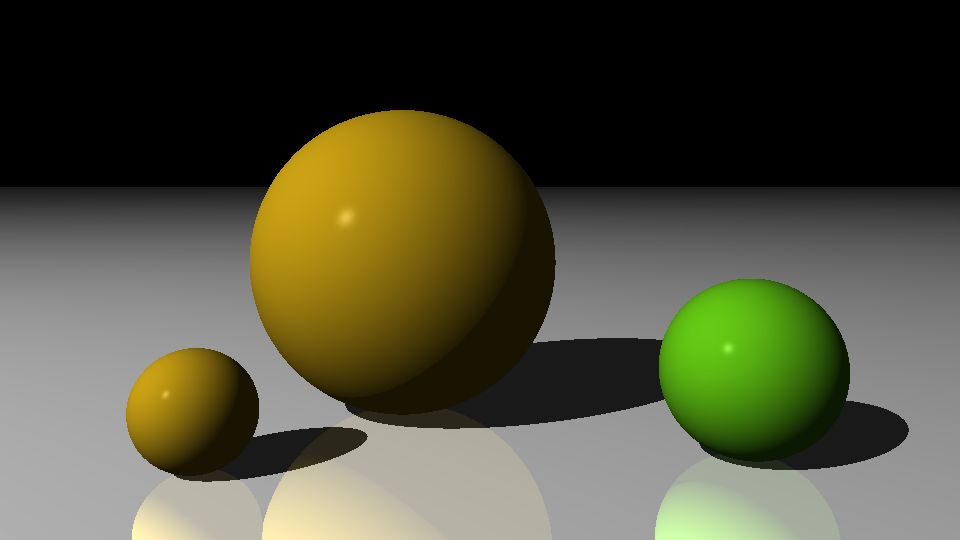
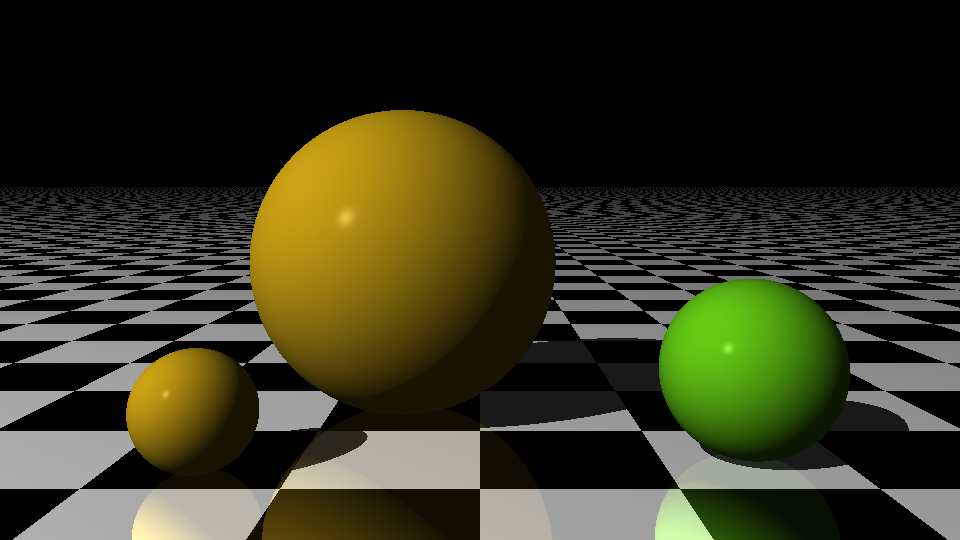
Get full scene configuration working again.

Changed region(s): [[0.0, 0.3259, 1.0, 1.0], [0.0, 0.3259, 0.3438, 0.8]]

diff --git a/src/loader.rs b/src/loader.rs
@@ -1,10 +1,22 @@
 use serde::{Deserialize, Serialize};
 
-use crate::maths::{Matrix4x4, rgb, vec3};
+use crate::graphics::{CheckerPattern, GradientPattern, RingPattern, StripedPattern};
+use crate::maths::{Color, Matrix4x4, rgb, vec3, Vector};
 use crate::scene::*;
 
-/// An (x, y, z) tuple.
 type PackedTuple = [f64; 3];
+
+impl From<PackedTuple> for Vector {
+  fn from([x, y, z]: PackedTuple) -> Self {
+    vec3(x, y, z)
+  }
+}
+
+impl From<PackedTuple> for Color {
+  fn from([r, g, b]: PackedTuple) -> Self {
+    rgb(r, g, b)
+  }
+}
 
 /// A serialized `Scene` that can be read from a file.
 #[derive(Serialize, Deserialize)]
@@ -38,6 +50,7 @@ struct PackedObject {
 }
 
 #[derive(Copy, Clone, Serialize, Deserialize)]
+#[serde(rename_all = "snake_case")]
 enum PackedKind {
   Sphere,
   Plane,
@@ -75,8 +88,8 @@ impl PackedObject {
       PackedKind::Plane => {
         Box::new(
           Plane::new(vec3(0., 1., 0.))
-          .with_material(material)
-          .with_transform(transform)
+            .with_material(material)
+            .with_transform(transform)
         )
       }
     }
@@ -85,7 +98,7 @@ impl PackedObject {
 
 #[derive(Serialize, Deserialize)]
 struct PackedMaterial {
-  color: Option<PackedTuple>,
+  texture: Option<PackedTexture>,
   ambient: Option<f64>,
   diffuse: Option<f64>,
   specular: Option<f64>,
@@ -97,7 +110,7 @@ struct PackedMaterial {
 
 impl PackedMaterial {
   pub fn build(&self) -> Material {
-    let [r, g, b] = self.color.unwrap_or([1., 1., 1.]);
+    let texture = self.texture.unwrap_or(PackedTexture::Solid([1., 1., 1.]));
     let ambient = self.ambient.unwrap_or(0.1);
     let diffuse = self.diffuse.unwrap_or(0.9);
     let specular = self.specular.unwrap_or(0.9);
@@ -107,8 +120,7 @@ impl PackedMaterial {
     let refractivity = self.refractivity.unwrap_or(1.);
 
     Material {
-      // TODO: other texture types?
-      texture: Texture::Solid(rgb(r, g, b)),
+      texture: texture.build(),
       ambient,
       diffuse,
       specular,
@@ -116,6 +128,46 @@ impl PackedMaterial {
       transparency,
       reflectivity,
       refractivity,
+    }
+  }
+}
+
+#[derive(Copy, Clone, Serialize, Deserialize)]
+#[serde(rename_all = "snake_case")]
+enum PackedTexture {
+  Solid(PackedTuple),
+  Checker(PackedTuple, PackedTuple),
+  Gradient(PackedTuple, PackedTuple),
+  Ring(PackedTuple, PackedTuple),
+  Striped(PackedTuple, PackedTuple),
+}
+
+impl PackedTexture {
+  pub fn build(&self) -> Texture {
+    match *self {
+      PackedTexture::Solid(color) => {
+        Texture::Solid(color.into())
+      }
+      PackedTexture::Checker(from, to) => {
+        let pattern = CheckerPattern::new(from.into(), to.into());
+
+        Texture::Pattern(Box::new(pattern))
+      }
+      PackedTexture::Gradient(from, to) => {
+        let pattern = GradientPattern::new(from.into(), to.into());
+
+        Texture::Pattern(Box::new(pattern))
+      }
+      PackedTexture::Ring(from, to) => {
+        let pattern = RingPattern::new(from.into(), to.into());
+
+        Texture::Pattern(Box::new(pattern))
+      }
+      PackedTexture::Striped(from, to) => {
+        let pattern = StripedPattern::new(from.into(), to.into());
+
+        Texture::Pattern(Box::new(pattern))
+      }
     }
   }
 }
